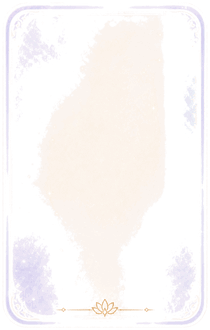
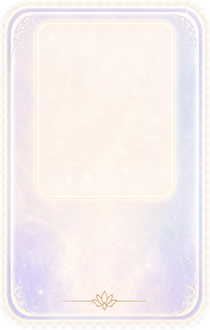
Fix draw slot card background

diff --git a/docs/ITERATION_LOG.md b/docs/ITERATION_LOG.md
@@ -440,3 +440,16 @@
 - 基线/对比：`git diff --stat -- miniprogram/pages/index/index.js miniprogram/pages/index/index.wxss docs/ITERATION_LOG.md`
 - 提交：待提交
 - 远端状态：待用户确认是否 push
+
+## 2026-06-14 - 牌阵抽牌槽位背景根因修复
+
+- 页面/模块：牌阵抽牌 / draw screen 抽牌槽位
+- 改动文件：`miniprogram/assets/draw-v2/draw-slot-card-bg.png`、`miniprogram/pages/index/index.wxss`、`docs/ITERATION_LOG.md`
+- 根因：上一版 `draw-slot-card-bg.png` 实际是淡色竖向卡牌内框，不是能承载“卡背 + 牌位标题 + 待抽状态”的完整槽位卡片；同时槽位内卡背仍按旧横向铺满区域显示，导致真机肉眼主要看到紫色卡背，标题/状态没有被完整背景包住。
+- 改动摘要：单独使用 `gpt-image-2` 重生成完整槽位卡片背景，经过本地透明化、裁切和圆角 alpha 平滑处理后替换入包；槽位 CSS 改为让背景图铺满 `.tarot-mini`，卡背缩成竖向牌面区域，牌位标题和状态文字固定落在同一槽位背景内。
+- 冻结范围：未修改顶部导航位置、标题栏、`navLayout`、底部 tab、整体固定首页背景、牌堆/卡背图片资源、抽牌流程和结果页。
+- 验证：`sips -g pixelWidth -g pixelHeight -g hasAlpha miniprogram/assets/draw-v2/draw-slot-card-bg.png miniprogram/assets/draw-v2/*.png` 确认槽位资源为 `210x330` 且 `hasAlpha: yes`；`du -ch miniprogram/assets/draw-v2/*.png | tail -1` 显示 `draw-v2` 资源总量约 `244K`；`node --check miniprogram/pages/index/index.js` 通过；`node --check miniprogram/utils/navLayout.js` 通过；`python3 -m json.tool project.config.json >/dev/null` 通过；`python3 -m json.tool miniprogram/app.json >/dev/null` 通过；`git diff --check` 通过；微信开发者工具 `cli preview` 成功并生成 `output/wechat-preview/preview-qrcode-display.png`，总包约 `2824468` Byte，主包约 `1791368` Byte，`/packages/tarot-assets/` 约 `1033100` Byte。
+- 风险/待确认：新槽位背景比上一版更明显，需真机确认与参考图的浅色玻璃质感是否达到预期；资源体积增加约 `48KB`，仍在当前主包余量内。
+- 基线/对比：`git diff --stat -- miniprogram/assets/draw-v2/draw-slot-card-bg.png miniprogram/pages/index/index.wxss docs/ITERATION_LOG.md`
+- 提交：待提交
+- 远端状态：本地 `main` 已 ahead，远端暂不可见
